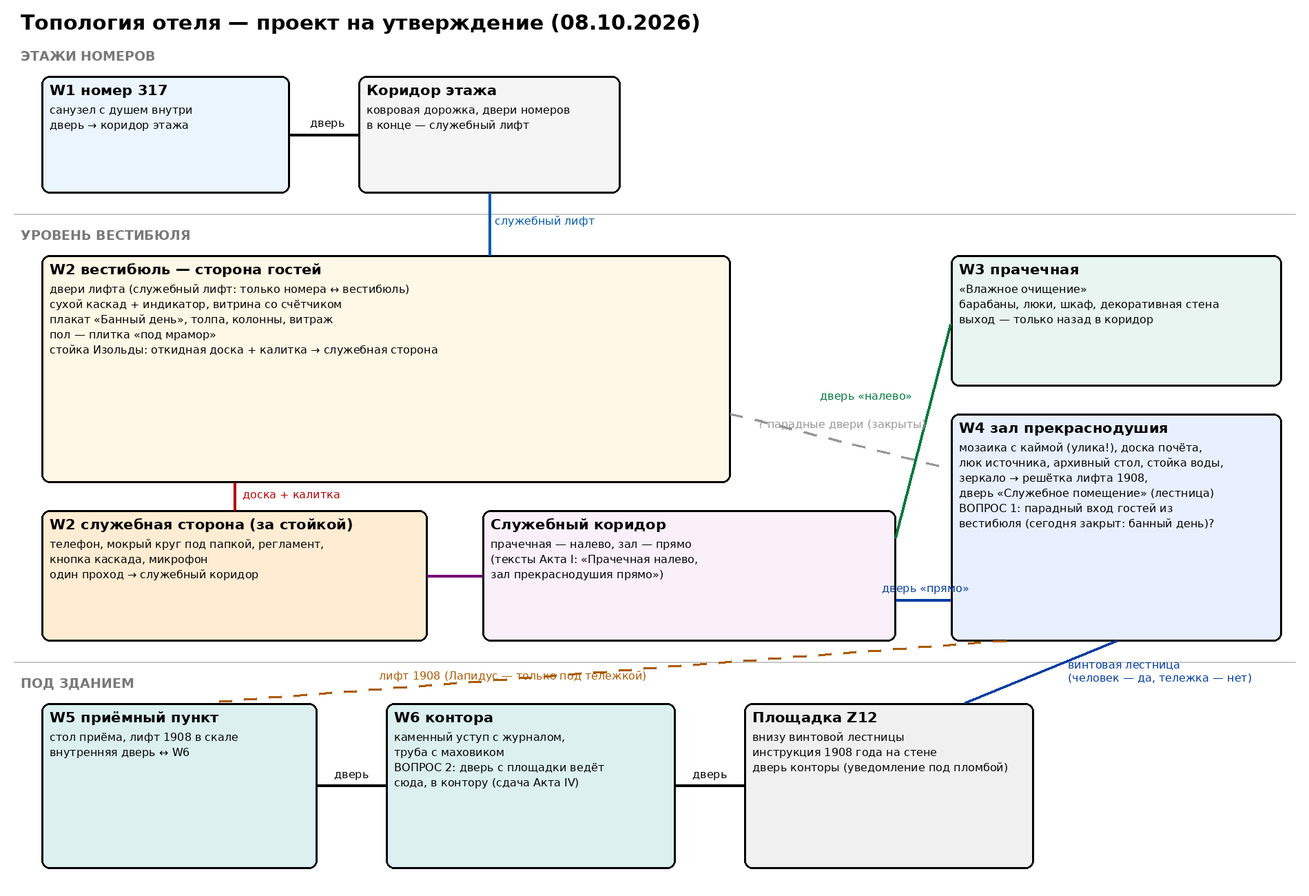
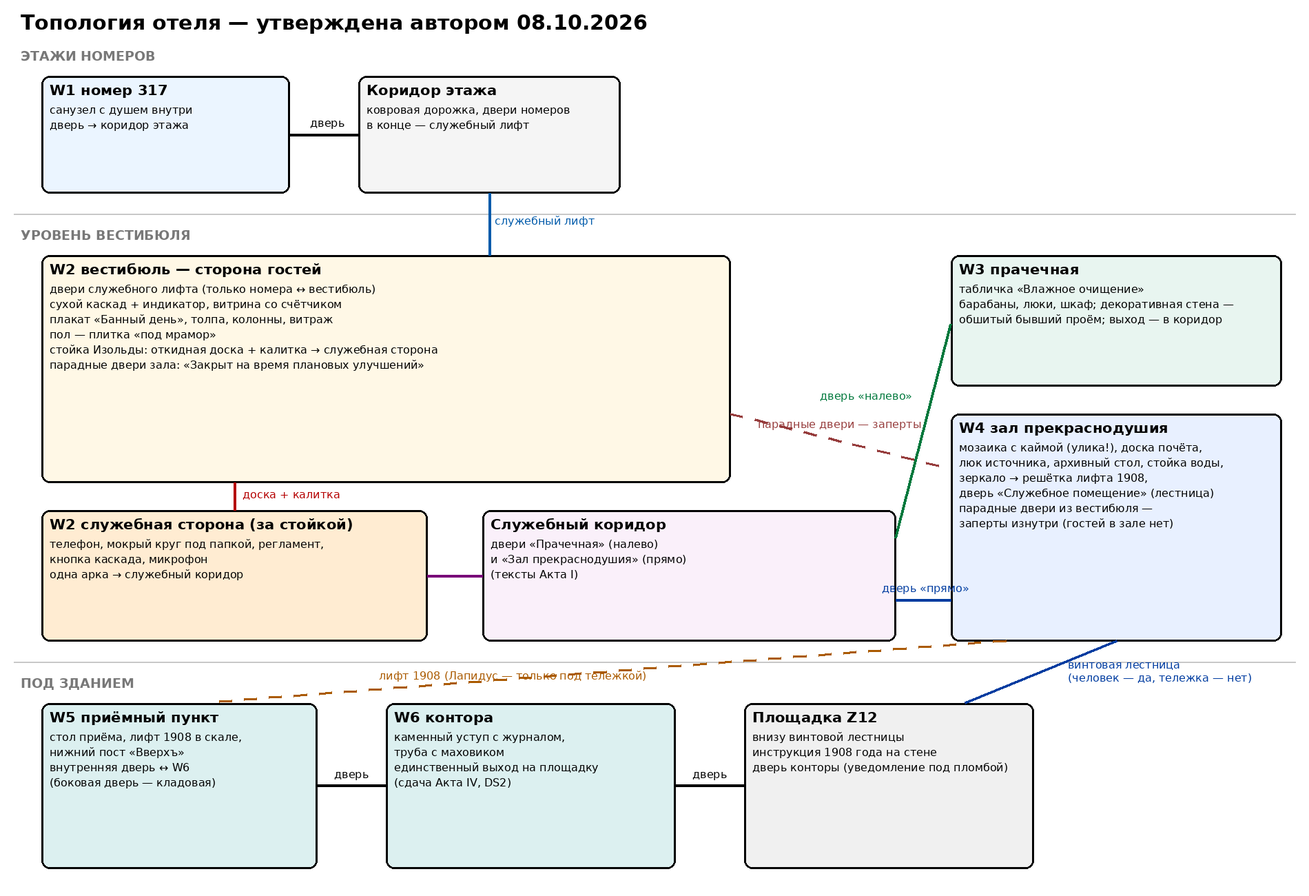
Топология отеля утверждена автором: парадные двери зала (заперты), одна арка за стойкой, низ по сдаче Акта IV, пол вестибюля — плитка, размеры и двери (спека §1.4а), нижний пост лифта; схемы обновлены
Claude-Session: https://claude.ai/code/session_01Bbq6Feu1G5NepL2mZVzLSv

diff --git a/tools/layout/hotel_topology.py b/tools/layout/hotel_topology.py
@@ -30,7 +30,7 @@ def arrow(p, q, label='', col=(0, 0, 0), w=4, dash=False, lx=8, ly=-24):
     if label:
         d.multiline_text(((x0 + x1) / 2 + lx, (y0 + y1) / 2 + ly), label, fill=col, font=R(16))
 
-d.text((30, 15), "Топология отеля — проект на утверждение (08.10.2026)", fill='black', font=B(30))
+d.text((30, 15), "Топология отеля — утверждена автором 08.10.2026", fill='black', font=B(30))
 for y, t in [(70, "ЭТАЖИ НОМЕРОВ"), (330, "УРОВЕНЬ ВЕСТИБЮЛЯ"), (980, "ПОД ЗДАНИЕМ")]:
     d.text((30, y), t, fill=(120, 120, 120), font=B(19))
 d.line((20, 310, W - 20, 310), fill=(200, 200, 200), width=2)
@@ -40,26 +40,26 @@ box(60, 110, 420, 280, "W1 номер 317", "санузел с душем вну
 box(520, 110, 900, 280, "Коридор этажа", "ковровая дорожка, двери номеров\nв конце — служебный лифт", (245, 245, 245))
 arrow((420, 195), (520, 195), "дверь", ly=-26, lx=-20)
 box(60, 370, 1060, 700, "W2 вестибюль — сторона гостей",
-    "двери лифта (служебный лифт: только номера ↔ вестибюль)\nсухой каскад + индикатор, витрина со счётчиком\n"
+    "двери служебного лифта (только номера ↔ вестибюль)\nсухой каскад + индикатор, витрина со счётчиком\n"
     "плакат «Банный день», толпа, колонны, витраж\nпол — плитка «под мрамор»\n"
-    "стойка Изольды: откидная доска + калитка → служебная сторона", (255, 248, 230))
+    "стойка Изольды: откидная доска + калитка → служебная сторона\nпарадные двери зала: «Закрыт на время плановых улучшений»", (255, 248, 230))
 arrow((710, 280), (710, 370), "служебный лифт", (0, 90, 170), ly=-14)
 box(60, 740, 620, 930, "W2 служебная сторона (за стойкой)",
-    "телефон, мокрый круг под папкой, регламент,\nкнопка каскада, микрофон\nодин проход → служебный коридор", (255, 236, 210))
+    "телефон, мокрый круг под папкой, регламент,\nкнопка каскада, микрофон\nодна арка → служебный коридор", (255, 236, 210))
 arrow((340, 700), (340, 740), "доска + калитка", (180, 0, 0), lx=12, ly=-12)
 box(700, 740, 1300, 930, "Служебный коридор",
-    "прачечная — налево, зал — прямо\n(тексты Акта I: «Прачечная налево,\nзал прекраснодушия прямо»)", (250, 240, 250))
+    "двери «Прачечная» (налево)\nи «Зал прекраснодушия» (прямо)\n(тексты Акта I)", (250, 240, 250))
 arrow((620, 835), (700, 835), "", (120, 0, 120))
-box(1380, 370, 1860, 560, "W3 прачечная", "«Влажное очищение»\nбарабаны, люки, шкаф, декоративная стена\nвыход — только назад в коридор", (232, 245, 240))
+box(1380, 370, 1860, 560, "W3 прачечная", "табличка «Влажное очищение»\nбарабаны, люки, шкаф; декоративная стена —\nобшитый бывший проём; выход — в коридор", (232, 245, 240))
 box(1380, 600, 1860, 930, "W4 зал прекраснодушия",
     "мозаика с каймой (улика!), доска почёта,\nлюк источника, архивный стол, стойка воды,\nзеркало → решётка лифта 1908,\n"
-    "дверь «Служебное помещение» (лестница)\nВОПРОС 1: парадный вход гостей из\nвестибюля (сегодня закрыт: банный день)?", (232, 240, 255))
+    "дверь «Служебное помещение» (лестница)\nпарадные двери из вестибюля —\nзаперты изнутри (гостей в зале нет)", (232, 240, 255))
 arrow((1300, 780), (1380, 470), "дверь «налево»", (0, 120, 60), lx=-150, ly=-60)
 arrow((1300, 870), (1380, 870), "дверь «прямо»", (0, 60, 160), lx=-60, ly=-26)
-arrow((1060, 600), (1380, 680), "? парадные двери (закрыты)", (150, 150, 150), dash=True, lx=-120, ly=-34)
+arrow((1060, 600), (1380, 680), "парадные двери — заперты", (150, 60, 60), dash=True, lx=-120, ly=-34)
 box(1080, 1020, 1500, 1260, "Площадка Z12", "внизу винтовой лестницы\nинструкция 1908 года на стене\nдверь конторы (уведомление под пломбой)", (240, 240, 240))
-box(560, 1020, 980, 1260, "W6 контора", "каменный уступ с журналом,\nтруба с маховиком\nВОПРОС 2: дверь с площадки ведёт\nсюда, в контору (сдача Акта IV)", (220, 240, 240))
-box(60, 1020, 460, 1260, "W5 приёмный пункт", "стол приёма, лифт 1908 в скале\nвнутренняя дверь ↔ W6", (220, 240, 240))
+box(560, 1020, 980, 1260, "W6 контора", "каменный уступ с журналом,\nтруба с маховиком\nединственный выход на площадку\n(сдача Акта IV, DS2)", (220, 240, 240))
+box(60, 1020, 460, 1260, "W5 приёмный пункт", "стол приёма, лифт 1908 в скале,\nнижний пост «Вверхъ»\nвнутренняя дверь ↔ W6\n(боковая дверь — кладовая)", (220, 240, 240))
 arrow((1620, 930), (1400, 1020), "винтовая лестница\n(человек — да, тележка — нет)", (0, 60, 160), lx=40, ly=-20)
 arrow((1080, 1140), (980, 1140), "дверь", (0, 0, 0), lx=-25, ly=-26)
 arrow((560, 1140), (460, 1140), "дверь", (0, 0, 0), lx=-25, ly=-26)

diff --git a/docs/BJ3_ASSET_SPEC.md b/docs/BJ3_ASSET_SPEC.md
@@ -11,7 +11,7 @@
 | Экраны (вайды), включая два вида «из-под юбки» | `assets/gfx/rooms/` | 1920×1080 RGB | 8 |
 | Зумы Z01–Z13 и три крупных плана Z04 | `assets/gfx/zooms/` | 1920×1080 RGB | 16 |
 | Кадры немых сцен | `assets/gfx/frames/` | 1920×1080 RGB | 18 |
-| Состояния (сдаются полным кадром-вариантом, §1.2) | `assets/gfx/cutouts/` | сдача 1920×1080 RGB → у меня RGBA-вырезка | 117 |
+| Состояния (сдаются полным кадром-вариантом, §1.2) | `assets/gfx/cutouts/` | сдача 1920×1080 RGB → у меня RGBA-вырезка | 116 |
 | Оверлеи юбки тележки | `assets/gfx/cutouts/` | 1920×1080 RGBA | 2 |
 | Портреты (с вариантами пены) | `assets/gfx/portraits/` | 512×512 RGBA | 42 (+4 Предка из BJ2) |
 | Иконки предметов | `assets/gfx/icons/` | 128×128 RGBA | 9 |
@@ -21,7 +21,7 @@
 | Шрифты | `assets/fonts/` | TTF | 0 — поставлены этой сессией (§8) |
 | Звуки, амбиенты, музыка | `assets/audio/` | OGG | 56 (+9 из BJ2, §9.5) |
 
-Итого генерировать: **графика 250 файлов, звук 56 файлов.** Точные списки — в таблицах ниже; счёт сверяет `tools/check_asset_spec.py`.
+Итого генерировать: **графика 249 файлов, звук 56 файлов.** Точные списки — в таблицах ниже; счёт сверяет `tools/check_asset_spec.py`.
 
 ## 1. Общие правила
 
@@ -58,6 +58,14 @@
 - **Стоя** — глаза на высоте ≈ 1,6 м. **Из-под юбки тележки** — горизонтально, на высоте ≈ 30 см, «на уровне обуви»: люди видны до колен, **снизу вверх на людей не смотрим** (вуайеризма нет). Сами виды из-под юбки рисуются **без юбки**: края юбки накладывает движок оверлеем `ov_skirt.png` (§2.7) — так все такие кадры одинаковы.
 - Людность вестибюля — гости-статисты без лиц крупным планом; лиц-«узнаваемых» персон нет. Кота нет. Животных нет.
 - Воды струёй нет нигде, кроме вступления (`OPEN.2_shower`); финальная вода — **только косвенно** (стрелки, табло, пар, шум). Исключение (решение автора 06.10.2026, §13 п. 15): пещера Кухтулху W5–W6 полузатоплена (стоячая вода — природа, не подача), после пуска (`water_restored`) вода в ней прибывает и бурлит — `st_w5_water`, `st_w6_water`.
+
+### 1.4а. Размеры и двери (решение автора 08.10.2026, независимая проверка топологии — `review/TOPOLOGY_REVIEW_FABLE.md`)
+
+- **Тележка** room service: ширина ≤ 70 см (со сложенными звёздами), высота столешницы ~85 см, юбка до пола; под ней помещается человек на четвереньках. Проходит: дверь номера, служебный лифт, калитку под откидной доской, служебный коридор, кабину лифта 1908 года.
+- **Откидная доска** ~80 см, **калитка** под ней открывается на служебную сторону (с гостевой стоит толпа).
+- **Проёмы**: арка служебного коридора и двери зала ≥ 100 см; двери открываются внутрь помещений (прачечная — внутрь W3, контора — внутрь W6), ни одна дверь при открывании не задевает мебель.
+- **Кабина лифта 1908 года** ~90×120 см, под одну тележку; посты: наверху «Вниз»/«Вызов» (Z11), внизу «Вверхъ» (W5).
+- **Топология** — `docs/assets/hotel_topology.png` (утверждена автором 08.10.2026): все экраны рисуются с ней в согласии.
 
 ### 1.5. Типографика — что пишет генератор, что движок (DESIGN_BIBLE §13, решения автора 07.10 и 08.10.2026)
 
@@ -135,11 +143,11 @@
 
 **Ракурс.** Стоя за стойкой Изольды, чуть развернувшись к залу; стойка закрывает героя по пояс от гостей (их и так не смотрят).
 
-**Композиция.** Справа и по центру внизу — внутренняя сторона стойки: столешница, телефон, мокрый лучистый круг на столешнице и на нём лист уведомления с мокрой лучистой пломбой (без папки), пустая подставка для карты, регламент, привинченный к стойке (ламинат, прямоугольное окно вырезано — сквозь него видно дерево стойки), кнопка каскада с чистой табличкой и маленькой лампой (не горит), микрофон громкой связи на «гусиной шее», фасады двух ящиков без ручек (верхний — нажимной; нижний). За стойкой — вестибюль: пол «под мрамор», толпа гостей (обычная людность, живая и в разных направлениях — замечание автора 07.10.2026: «все спиной — неестественно»: трое-четверо стоят лицом к стойке и возмущаются — у стойки толпа жалующихся, Акт I; остальные идут в профиль, беседуют, читают; лица только на среднем плане; халатов и полотенец нет — банный день; гостья в косметической маске стоит лицом к стойке: светло-мятная глиняная маска с белой каймой у линии волос, широкий ободок — иначе читается как зелёная кожа; её реплика — «маску через двадцать минут смывать»), декоративный каскад на камнях (сух, на камнях одна резкая тёмная линия), над ним круглый индикатор насоса: циферблат без цифр, стрелка на нуле, рядом лампа (не горит); витрина экспоната у стены (стеклянная дверца без ручек, за ней латунный счётчик с лучистой пломбой; табличка на стойке чистая); огромный чистый плакат над толпой; двери пассажирского лифта вдали. Слева — служебная стена: дверь в прачечную с латунной табличкой «Влажное очищение» (рисует генератор, §1.5) и дальше по стене — **открытая арка без двери** в служебный коридор к залу прекраснодушия (решение автора 08.10.2026: дверь у конца стойки при открывании билась бы о стойку; W4 доступен только со служебной стороны, флаг `w4_open`). Пол служебной зоны и вестибюля — плитка «под мрамор», без мозаичной каймы (§1.3). Над толпой — плакат «Банный день» (генератор). Регламент — лист А4 в ламинате на четырёх шурупах, строчки в размытие, посередине вырезано прямоугольное окно до дерева (Акт III: пункт между подготовкой и пуском вырезан). Мокрый лучистый круг — вода, не кофе: глянцевые брызги-лучи, капли, подмокшая бумага уведомления с мокрой красной лучистой пломбой. Откидная доска стойки опущена.
+**Композиция.** Справа и по центру внизу — внутренняя сторона стойки: столешница, телефон, мокрый лучистый круг на столешнице и на нём лист уведомления с мокрой лучистой пломбой (без папки), пустая подставка для карты, регламент, привинченный к стойке (ламинат, прямоугольное окно вырезано — сквозь него видно дерево стойки), кнопка каскада с чистой табличкой и маленькой лампой (не горит), микрофон громкой связи на «гусиной шее», фасады двух ящиков без ручек (верхний — нажимной; нижний). За стойкой — вестибюль: пол «под мрамор», толпа гостей (обычная людность, живая и в разных направлениях — замечание автора 07.10.2026: «все спиной — неестественно»: трое-четверо стоят лицом к стойке и возмущаются — у стойки толпа жалующихся, Акт I; остальные идут в профиль, беседуют, читают; лица только на среднем плане; халатов и полотенец нет — банный день; гостья в косметической маске стоит лицом к стойке: светло-мятная глиняная маска с белой каймой у линии волос, широкий ободок — иначе читается как зелёная кожа; её реплика — «маску через двадцать минут смывать»), декоративный каскад на камнях (сух, на камнях одна резкая тёмная линия), над ним круглый индикатор насоса: циферблат без цифр, стрелка на нуле, рядом лампа (не горит); витрина экспоната у стены (стеклянная дверца без ручек, за ней латунный счётчик с лучистой пломбой; табличка на стойке чистая); огромный плакат над толпой; на дальнем плане — двери **служебного лифта** (он открывается прямо в вестибюль: тексты Акта I) и **парадные двустворчатые двери зала прекраснодушия**, заперты, на них табличка «Зал прекраснодушия. Закрыт на время плановых улучшений» (генератор; решение автора 08.10.2026 по топологии: у публичного зала есть гостевой вход, но сегодня он заперт — поэтому гостей в W4 нет). Слева, на стене служебной стороны, — **одна открытая арка** в служебный коридор (решение автора 08.10.2026, по текстам Акта I: «Прачечная налево, зал прекраснодушия прямо»; «За стойкой — служебный коридор. На дверях надписи: „Прачечная“ и „Зал прекраснодушия“»): в глубине коридора видны две двери с надписями «Прачечная» (налево) и «Зал прекраснодушия» (прямо), обе — генератор. Других дверей на служебной стороне нет. Пол служебной зоны и вестибюля — плитка «под мрамор», без мозаичной каймы (§1.3). Над толпой — плакат «Банный день» (генератор). Регламент — лист А4 в ламинате на четырёх шурупах, строчки в размытие, посередине вырезано прямоугольное окно до дерева (Акт III: пункт между подготовкой и пуском вырезан). Мокрый лучистый круг — вода, не кофе: глянцевые брызги-лучи, капли, подмокшая бумага уведомления с мокрой красной лучистой пломбой. Откидная доска стойки опущена.
 
 **Откидная доска — устройство** (замечание автора 07.10.2026: сверить с прототипом и функцией). Функция в игре — проход сквозь стойку из вестибюля на служебную сторону: тележка упирается, Изольда, не глядя, поднимает доску, тележка уезжает за стойку (Акт I, AS10; сегодня доску перекрывает толпа). Прототип — откидная секция барной/ресепшн-стойки (counter flap): кусок столешницы ~80 см на петлях, поднимается вверх и откидывается на соседнюю часть стойки; под ним — калитка, низкая распашная дверца до пола. Опущенная доска лежит вровень со столешницей, её выдают прямой шов и латунные петли сверху. Место — левый конец стойки, у служебных дверей.
 
-**Схема стойки W2 — утверждена автором 07.10.2026** (`docs/assets/w2_counter_layout.png`; замечание автора: «стойка выглядит физически абсурдно»): прямая стойка в два уровня — рабочий стол сотрудника с нашей стороны, высокий бортик ~110 см со стороны гостей; камера за стойкой у её правого конца, смотрит влево; стойка уходит в перспективе влево и упирается в стену; последние ~80 см у стены — откидная доска (шов, две латунные петли) и калитка под ней; за стеной служебной стороны слева — двери в прачечную и служебный коридор; толпа — перед стойкой, у прохода. Генерировать W2, W2 из-под юбки и их состояния строго по этой схеме.
+**Схема стойки W2 — утверждена автором 07.10.2026** (`docs/assets/w2_counter_layout.png`; замечание автора: «стойка выглядит физически абсурдно»): прямая стойка в два уровня — рабочий стол сотрудника с нашей стороны, высокий бортик ~110 см со стороны гостей; камера за стойкой у её правого конца, смотрит влево; стойка уходит в перспективе влево и упирается в стену; последние ~80 см у стены — откидная доска (шов, две латунные петли) и калитка под ней; на стене служебной стороны слева — одна арка в служебный коридор (решение 08.10.2026; на самой схеме ещё две двери — устарело); толпа — перед стойкой, у прохода. Генерировать W2, W2 из-под юбки и их состояния строго по этой схеме.
 
 **На базе не рисовать:** Изольду, тележку, папку, карту, бланки, жалобы, кефир, предметы на тележке.
 
@@ -176,7 +184,7 @@
 
 ### 2.4. W3 — прачечная · `room_w3.png`
 
-**Композиция.** Слева ряд из четырёх промышленных барабанов с круглыми стеклянными люками; за стеклом одного — одежда Лапидуса в воде (пиджак, рубашка, галстук — как на портретах BJ2), табло управления над барабанами чистые и тёмные. По центру — сортировочный стол и два бака с водой. На стене — чистая табличка службы. Справа — «декоративная стена»: гладкие бежевые панели без щелей. В углу — металлический служебный шкаф (закрыт). Дверной проём назад в W2. Свет — холодные лампы, светло.
+**Композиция.** Слева ряд из четырёх промышленных барабанов с круглыми стеклянными люками; за стеклом одного — одежда Лапидуса в воде (пиджак, рубашка, галстук — как на портретах BJ2), табло управления над барабанами чистые и тёмные. По центру — сортировочный стол и два бака с водой. На стене — табличка службы «Влажное очищение» (генератор, §1.5). Справа — «декоративная стена»: гладкие бежевые панели без щелей; на вайде угадывается, что ими обшит бывший арочный проём (выпуклость обшивки по контуру арки) — бытовое объяснение, почему из прачечной нет хода к лифту (решение автора 08.10.2026); щелей и винтов нет, зум Z07 без изменений, улики здесь нет (BS31). В углу — металлический служебный шкаф (закрыт). Дверь в служебный коридор (открывается внутрь W3). Свет — холодные лампы, светло.
 
 | Файл | Что на кадре-варианте | Когда |
 |---|---|---|
@@ -184,7 +192,7 @@
 
 ### 2.5. W4 — зал прекраснодушия · `room_w4.png`
 
-**Композиция.** Бывший зал водолечения: мозаичный пол с каймой (та же кайма — на фото «Четвергъ»), бирюзовый кафель, колонны. В центре пола — подсвеченное снизу стекло над люком источника (чугунный люк с кольцом под стеклом, по краям стекла — рамки-уголки). Рядом — архивный стол: тубус (закрыт), папка профилактория, толстый журнал, листы; у люка — стойка для бутылок воды с чистой табличкой (пуста). На левой стене — доска почёта: рамки с фото сотрудников (имена — чистые поля), бежевый свежеокрашенный прямоугольник, табличка «Осторожно, окрашено» (чистая), рядом латунная щель с заслонкой (чистая гравировка). На правой стене — **решётчатая дверь грузового лифта 1908 года**: за решёткой тёмная шахта с тросами (кабины нет), рядом латунный пост с двумя чистыми кнопками и лампой (горит), над решёткой — чистое поле под трафарет; в мозаике у решётки выступает **латунный порожек**. В дальней стене — дверь с чистой табличкой (служебная лестница), закрыта. Вход из служебного коридора — у края кадра.
+**Композиция.** Бывший зал водолечения: мозаичный пол с каймой (та же кайма — на фото «Четвергъ»), бирюзовый кафель, колонны. В центре пола — подсвеченное снизу стекло над люком источника (чугунный люк с кольцом под стеклом, по краям стекла — рамки-уголки). Рядом — архивный стол: тубус (закрыт), папка профилактория, толстый журнал, листы; у люка — стойка для бутылок воды с чистой табличкой (пуста). На левой стене — доска почёта: рамки с фото сотрудников (имена — чистые поля), бежевый свежеокрашенный прямоугольник, табличка «Осторожно, окрашено» (чистая), рядом латунная щель с заслонкой (чистая гравировка). На правой стене — **решётчатая дверь грузового лифта 1908 года**: за решёткой тёмная шахта с тросами (кабины нет), рядом латунный пост с двумя чистыми кнопками и лампой (горит), над решёткой — чистое поле под трафарет; в мозаике у решётки выступает **латунный порожек**. В дальней стене — дверь с табличкой «Служебное помещение» (генератор; служебная лестница), закрыта. Вход из служебного коридора — дверь у края кадра. На левой стене — **парадные двустворчатые двери из вестибюля**, заперты изнутри на засов, перед ними стойка с бархатным канатом (решение автора 08.10.2026: гостевой вход есть, сегодня закрыт).
 
 **На базе не рисовать:** зеркало, кабину, кучу «дизайна», тележку, бутылку на стойке, плёнки, фото.
 
@@ -210,7 +218,7 @@
 
 **Образ (решение автора 06.10.2026, §13 п. 15, редакция 2).** Не помещение, а **природа**: Кухтулху — часть природы, её владения — **настоящая подземно-подводная полузатопленная морская пещера**, огромная и древняя: скальные своды и арки, сталактиты, капель, стоячая бирюзовая вода на большей части пола, водоросли, актинии, ракушки, морские жёлуди, кораллы на камнях, слабое свечение в глубине, пещера уходит во мглу. Человеческая канцелярия вторглась лишь кое-где — смешной контраст: стол на каменной отмели посреди воды, лифт 1908 года вмурован в скалу на пятачке кафеля, двери вделаны прямо в породу, лампы под зелёными абажурами висят на провисшем кабеле. Комедия, не хоррор. Хозяйка — великанша около 3 м (§5.3). **От лифта к столу — сплошной сухой проход** (мостки 1908 года или общий каменный уступ): тележка должна доехать (замечание автора 07.10.2026).
 
-**`room_w5.png`, в рост.** Пещера, как выше; на переднем плане — каменная отмель со столом приёма (тёмное резное дерево, зелёное сукно, бювар, чернильница с пером, счёты); над столом на скале — эмалевая табличка «Пріёмный пунктъ» (рисует генератор, §1.5; принято автором 07.10.2026); на двери конторы — латунная табличка «Контора старшаго по водѣ». Слева — латунная решётка лифта в скале, открыта, пустая кабина, перед ней пятачок кафеля. Дверь в контору — в скале за столом; дверь на служебную лестницу — в скале сбоку; обе закрыты.
+**`room_w5.png`, в рост.** Пещера, как выше; на переднем плане — каменная отмель со столом приёма (тёмное резное дерево, зелёное сукно, бювар, чернильница с пером, счёты); над столом на скале — эмалевая табличка «Пріёмный пунктъ» (рисует генератор, §1.5; принято автором 07.10.2026); на двери конторы — латунная табличка «Контора старшаго по водѣ». Слева — латунная решётка лифта в скале, открыта, пустая кабина, перед ней пятачок кафеля. Дверь в контору — в скале за столом, закрыта. Боковая дверь в скале — кладовая, закрыта всегда, не интерактивна (решение автора 08.10.2026 по топологии: выход на служебную лестницу — только через контору, сдача Акта IV, DS2; на принятом `room_w5.png` эта дверь остаётся как есть). У решётки лифта — нижний латунный пост с кнопкой «Вверхъ» (генератор; обязательство Акта III «кабину можно вызвать»), добавляется вклейкой участка в чистую базу (§1.2).
 
 **`room_w5_under.png`, из-под юбки у стола.** Та же отмель с высоты 30 см: мокрый камень с ракушками и морскими желудями, кромка воды, резные ножки стола приёма совсем близко, вдали — решётка лифта. Без щупалец. Делается от принятой `room_w5.png` референсом.
 
@@ -222,7 +230,6 @@
 | `st_w5_trolley.png` | тележка у стола: звёзды сложены, на латунной пластине мокрый оттиск | `trolley_reinventoried` |
 | `st_w5_goods.png` | на столе: бутылка кефира, накладная, счёт, бутылка «Каскадъ» с запиской, проштампованный поднос с завтраком | `goods_accepted` |
 | `st_w5_door_office.png` | дверь в контору открыта, за ней папки | `reported` |
-| `st_w5_door_stairs.png` | дверь на лестницу открыта, видна площадка | `reported` |
 | `st_w5u_tentacles.png` | щупальца-ноги, **голые** (нарукавники — только на руках-щупальцах, решение автора 07.10.2026): два выползают из тени под цоколем стола между ножками, третье — из-за дальнего угла стола; кончики неподвижны на мокром камне перед столом. Каждое щупальце — одной линией от тени под/за столом до кончика, «из ниоткуда» не появляется | `goods_accepted` ∧ ¬`lap_out` |
 | `st_w5u_reach.png` | рука-щупальце тянется со стола на столешницу тележки над камерой — **сама в кадре не видна** (над кадром и под оверлеем юбки, решение автора 07.10.2026): на мокрый пол и резной фасад стола ложится тень щупальца с присосками, сверху падают капли, рак-отшельник поднимает глаза | кадр `SEQ.rollout` |
 | `st_w5_water.png` | пещера оживает: вода прибывает и бурлит, из расщелин бьют ключи, свечение в глубине ярче | `water_restored` |
@@ -236,7 +243,7 @@
 
 ### 2.8. W6 — контора старшего по воде · `room_w6.png`
 
-**Композиция** (решение автора 06.10.2026, §13 п. 15, ред. 2; п. 17 — без второго стола). Глубокий грот той же пещеры — её «контора». **Стола нет**: её рабочее место — часть пещеры. Справа из воды в свод уходит магистральная чугунная труба 1908 года с латунным маховиком задвижки и манометром (циферблат без цифр, стрелка — у меня в катаутах); рядом с трубой — широкий **плоский каменный уступ-«конторка»**, на нём раскрытый журнал, кефирная кружка и семейная фотография в рамке (его зум — Z13); сиденья у неё нет — в W6 она стоит (решение автора 07.10.2026: ни стола, ни валуна; `room_w6.png` принят 07.10.2026); у уступа — крошечный деревянный стул посетителя. Папки и журналы — в скальных нишах и на полке из плавника, сырые бумаги перевязаны бечёвкой. На скале на проводе висит старый динамик громкой связи; позади в скале — дверь в приёмный пункт и открытая дверь на каменную лестницу. Вокруг — бирюзовая вода со свечением, лампы под зелёными абажурами на кабеле.
+**Композиция** (решение автора 06.10.2026, §13 п. 15, ред. 2; п. 17 — без второго стола). Глубокий грот той же пещеры — её «контора». **Стола нет**: её рабочее место — часть пещеры. Справа из воды в свод уходит магистральная чугунная труба 1908 года с латунным маховиком задвижки и манометром (циферблат без цифр, стрелка — у меня в катаутах); рядом с трубой — широкий **плоский каменный уступ-«конторка»**, на нём раскрытый журнал, кефирная кружка и семейная фотография в рамке (его зум — Z13); сиденья у неё нет — в W6 она стоит (решение автора 07.10.2026: ни стола, ни валуна; `room_w6.png` принят 07.10.2026); у уступа — крошечный деревянный стул посетителя. Папки и журналы — в скальных нишах и на полке из плавника, сырые бумаги перевязаны бечёвкой. На скале на проводе висит старый динамик громкой связи; позади в скале — дверь в приёмный пункт и открытая дверь на площадку служебной лестницы (кафель, лампа, инструкция 1908 года в раме, ступени дальше; дверь открывается внутрь W6). На принятом `room_w6.png` за дверью сразу ступени — площадку добавить вклейкой участка (§1.2). Вокруг — бирюзовая вода со свечением, лампы под зелёными абажурами на кабеле.
 
 **На базе не рисовать:** Кухтулху, пломбу на маховике, стрелку манометра.
 
@@ -321,7 +328,7 @@
 | `st_z11_trolley_returned.png` | кабина вернулась: на бутылке мокрый лучистый оттиск и записка, под бутылкой лист, на подносе оттиск | кадр `SEQ.test.call` |
 | `st_z11_finger_down.png` | мыльный палец на нижней кнопке поста | кадр `SEQ.test.send` |
 | `st_z11_finger_call.png` | мыльный палец на верхней кнопке поста | кадр `SEQ.test.call` |
-| `st_z12_door_open.png` | дверь конторы открыта, за ней свет приёмного пункта | `reported` |
+| `st_z12_door_open.png` | дверь конторы открыта, за ней контора: мокрый камень, лампы под зелёными абажурами | `reported` |
 | `st_z13_seal.png` | на маховике — проволочная пломба с картонной биркой | ¬`marks_exchanged` |
 | `st_z13_seal_torn.png` | обрывок пломбы с биркой лежит на столе | `marks_exchanged` |
 | `st_z13_needle_zero.png` | стрелка манометра на нуле | ¬`water_restored` |
@@ -434,7 +441,7 @@
 | `SEQ.come_out` | IV | `room_w5.png` + `st_w5_kuh.png` + `st_w5_trolley.png` + `st_w5_goods.png`; портрет `kuh_looks` |
 | `SEQ.hello` | IV | как `SEQ.come_out` |
 | `SEQ.report_line` | IV | как `SEQ.come_out` |
-| `SEQ.doors` | IV | как `SEQ.come_out` + `st_w5_door_office.png` + `st_w5_door_stairs.png` |
+| `SEQ.doors` | IV | как `SEQ.come_out` + `st_w5_door_office.png` |
 | `SEQ.office` | IV | `room_w6.png` + `st_w6_kuh.png` + `st_w6_seal.png` + `st_w6_needle_zero.png` |
 | `PA.final` | IV | `zoom_z13.png` + `st_z13_seal_torn.png` + `st_z13_needle_up.png` + вещи на столе |
 | `SEQ.finale` | IV | `room_w2.png` + `st_w2_iz.png` + `st_w2_gauge_up.png`, затем `zoom_z06.png` + `st_z06_spin.png`, затем `zoom_z13.png` + `st_z13_seal_torn.png` + `st_z13_needle_up.png`; портрет `lap_clean` |

diff --git a/PROJECT_STATUS_HYDROUDAR.md b/PROJECT_STATUS_HYDROUDAR.md
@@ -11,6 +11,7 @@
 - **СЛЕДУЮЩАЯ СЕССИЯ — начать отсюда:**
   1. **Вырезка — сделано 07.10.2026** (автор: «пробная вырезка устраивает»): `assets/gfx/cutouts/` — `st_w5_kuh`, `st_w6_kuh`, `st_w6_kuh_aside`, `st_w5u_tentacles`, `st_w5u_reach` (RGBA, координаты — `cutouts.json`; склейки — `work/higgsfield/cutout_preview/`). Замечание: в `st_w5_kuh` вывеска «Пріёмный пунктъ» взята из варианта — она на 130 px левее, чем на базе (на базе её место закрыла причёска); состояние включается при смене вида (из-под юбки → в рост), скачок не виден. Манифест: md5 `BJ3_HANDOFF.md` обновлён по слову автора — `check_docs.py` без расхождений.
   1а. **Правило «экран должен радовать глаз» — DESIGN_BIBLE §9 (решение автора 07.10.2026):** отель — историческое здание трёх эпох, в каждом кадре видны слои 1908 / профилакторий / «фирменный бежевый» поверх (неаккуратно, из-под краски проступает старое); бежевый — мотив, не палитра кадра. Спека §1.3 поправлена (палитра «Бежевый комфорт» на весь отель отменена), md5 библии в манифесте обновлён. Следствия: W2 перерисовывается по правилу (компоновка — вариант d, откидная доска по прототипу, спека §2.2); **принятый W1 переделывается** (решение автора), гэги W1 сохраняются.
+  1б. **Топология отеля утверждена автором 08.10.2026** — `docs/assets/hotel_topology.png` (генератор схемы `tools/layout/hotel_topology.py`); независимая проверка Fable — `review/TOPOLOGY_REVIEW_FABLE.md`. Решения: у зала прекраснодушия есть парадные двери из вестибюля, сегодня заперты («Закрыт на время плановых улучшений»); за стойкой W2 одна арка в служебный коридор, в нём двери «Прачечная» (налево) и «Зал прекраснодушия» (прямо); низ по сдаче Акта IV — с площадки одна дверь в контору W6, из неё внутренняя в W5 (дверь W5 → лестница и `st_w5_door_stairs` сняты, графика 249); пол вестибюля — плитка «под мрамор» (сдача Акта III поправлена редакционно); размеры и направления дверей — спека §1.4а; нижний пост лифта «Вверхъ» в W5; в W2 — двери служебного лифта; «декоративная стена» W3 — обшитый бывший проём. **Надписи (08.10.2026): все короткие — генератор, длинные документы — движок** (DESIGN_BIBLE §13, спека §1.5). Хвосты по принятым кадрам: в `room_w5.png` добавить пост «Вверхъ», в `room_w6.png` за открытой дверью — площадку (вклейкой участка, §1.2). W2 перерисовать с нуля по топологии; кандидат `work/higgsfield/candidates/room_w2.png` (стойка, регламент, мокрое пятно, «Банный день» — годны) устарел в части дверей.
   2. **Порядок — строго по спеке §12 (решение автора 07.10.2026: «почему начали с конца?» → вернуться к плану).** Сейчас — **пакет 2, Акты I–II**: W2, W2 из-под юбки, W3, W4, переделка Z01, Z04–Z12, крупные планы Z04, затем их состояния. Пакет 3 (низ) — после: остаток W5/W6 (`st_w5_trolley`, `_goods`, двери, `_water`, `st_w6_seal`, стрелки, `st_w6_water`) и Z13. Потом пакеты 4–6: немые сцены и оверлеи юбки, документы и иконки, интерфейс; звук §9 параллельно. Список «начать отсюда» сверять с §12, а не только с прошлым статусом.
   - **Платформа (решение автора 07.10.2026): приоритет — игра в браузере через GitHub Pages; архив для Windows без отдельной команды не делать.** DESIGN_BIBLE §13 (движок, гейт 13, поставка) поправлена, md5 в манифесте обновлён. Открыто к этапу сборки: движок — love.js (перенос кода BJ2 на Lua; проверить живость проекта, звук и сохранения в браузере) или свой на HTML5/JS; решение предложить автору с проверенными фактами. Репозиторий `proshot82/Hydroshock` **публичный** (проверено 07.10.2026) — Pages доступен на бесплатном плане, сайт будет открыт всем по ссылке; содержимое репозитория уже публично.
   - Принято на 07.10.2026 (конец второй сессии): графика 54 из 250 (портреты 42 — Лапидус 28, Изольда 7, Кухтулху 7; экраны `room_w1`, `room_w5`, `room_w5_under`, `room_w6`; зумы `zoom_z02`, `zoom_z03`; кадры-варианты 5 состояний — `st_w5_kuh`, `st_w6_kuh`, `st_w6_kuh_aside`, `st_w5u_tentacles`, `st_w5u_reach`; плюс Предок из BJ2), музыка 6 из 56 звуков (5 тем + `mus_hold`). Higgsfield — 4997 кредитов; ElevenLabs Creator — ~35 мин из 62 в этом месяце.

diff --git a/acts/act3/ACT3_SUBMISSION.md b/acts/act3/ACT3_SUBMISSION.md
@@ -281,7 +281,7 @@
 | Вывод | Clue | Независимое подтверждение | Reminder / failed attempt | Confirmation |
 |---|---|---|---|---|
 | Лифт есть (C02) | Z12: инструкция — тележку возили в приёмный пункт (C01) | Акт II: приёмный пункт за дверью (план); лестница узкая (шутка про сантехника) | тележка застряла в первом витке | C05: лифт найден |
-| Лифт в зале (C03) | Z10: фото «Четвергъ» — решётка на мозаике | Z11: кайма мозаики у зеркала та же; порожек (C04) | в прачечной кафель, в вестибюле ковёр | C05 |
+| Лифт в зале (C03) | Z10: фото «Четвергъ» — решётка на мозаике | Z11: кайма мозаики у зеркала та же; порожек (C04) | в прачечной кафель, в вестибюле плитка «под мрамор» (ред. 08.10.2026, решение автора: было «ковёр», расходилось с текстами и GDD) | C05 |
 | Дверь за зеркалом (C04) | Z11: латунный порожек под зеркалом | наклейка «Не трогать — элемент дизайна»: рабочий счётчик отель тоже прятал под видом экспоната (Акт II) | «Улыбнитесь себе» — на месте двери | C05: за зеркалом решётка |
 | Зеркало снимают присоской (P09) | Акт II, D15: присоска держит гладкое стекло | Акт I, A01: сопротивление присоски | O01: нажатие не открывает, пальцы скользят | C05 |
 | У двух «не трогать» разные авторы (P10) | Z11: мел на лифте, наклейки на декоре (C06) | Акт II, B14: Изольда — мелом подписывал сантехник; B08: «Не трогать» на незапертой витрине | O03: рубильник — пост гаснет | C07: кабина пуста, мел цел, лампа горит |
@@ -328,7 +328,7 @@
 | 1 | Спустить тележку по лестнице (C02, ключевой эксперимент дуги) | проход | винтовая и узкая: тележка застревает в первом витке. Нести нельзя: латунь тяжёлая, руки мыльные. Значит, возили не здесь |
 | 2 | Снова постучать в дверь конторы | приём | тишина; «Приём — в установленном порядке» |
 | 3 | Искать внизу вход в приёмный пункт | вход | внизу одна дверь; по плану приёмный пункт за ней |
-| 4 | Искать лифт в прачечной или вестибюле | где | на фото мозаика зала; в прачечной кафель, в вестибюле ковёр |
+| 4 | Искать лифт в прачечной или вестибюле | где | на фото мозаика зала; в прачечной кафель, в вестибюле плитка «под мрамор» (ред. 08.10.2026, решение автора: было «ковёр», расходилось с текстами и GDD) |
 | 5 | Нажать на зеркало (O01, ключевой эксперимент P09) | способ открытия | это не защёлка: зеркало висит на крюках |
 | 6 | Потянуть за раму мыльными руками | хват | пальцы съезжают по стеклу и позолоте |
 | 7 | Поддеть зеркало кромкой меню | щель | висит вровень со стеной, щели нет |

diff --git a/docs/BJ3_GDD.md b/docs/BJ3_GDD.md
@@ -81,7 +81,7 @@
 | Изольда (портрет) | `iz_formal` → после P08 `iz_averted` и признание фактов → P13 `iz_confess`, `iz_looks` → порог; в Акте IV штампует, не реагирует | `iz_admits_facts`, `iz_confessed`, `iz_reported_pa` |
 | Плакат банного дня | всегда | — |
 
-### W3 — Прачечная и служебная шахта (Акты II–IV)
+### W3 — Прачечная (Акты II–IV)
 
 | Элемент | Состояния | Флаг |
 |---|---|---|
@@ -115,7 +115,7 @@
 | Кадр | из-под юбки: кафель, ножки стола, кончики щупалец / в рост: стол приёма, дама в нарукавниках и очках | ¬`lap_out` / `lap_out` |
 | Тележка | у стола; на пластине мокрый знак «возвратъ» | `trolley_reinventoried` |
 | Груз на столе | кефир, накладная, счёт, «Каскадъ» с исправленной запиской, проштампованный завтрак | `goods_accepted` |
-| Дверь в контору, дверь на лестницу | закрыты / открыты | `reported` |
+| Дверь в контору (выход на лестницу — только через контору, DS2; ред. 08.10.2026) | закрыта / открыта | `reported` |
 | Табличка «Пріёмный пунктъ» | всегда | — |
 | Кухтулху (портрет) | `kuh_formal` (глаза в бумаги) до выхода; `kuh_looks` с `SEQ.come_out`; далее по репликам | `lap_out` |
 
